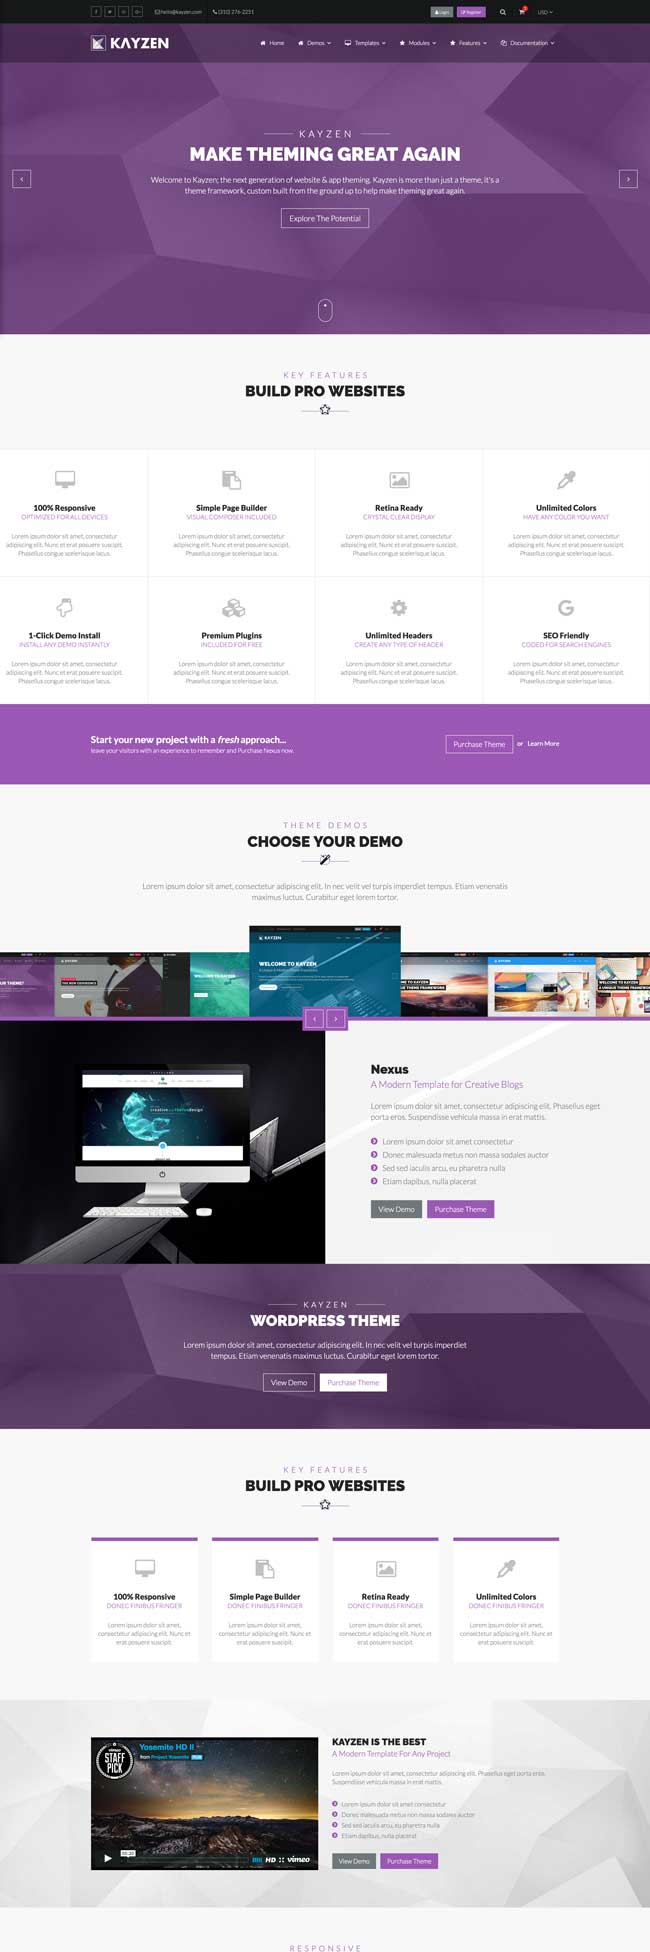
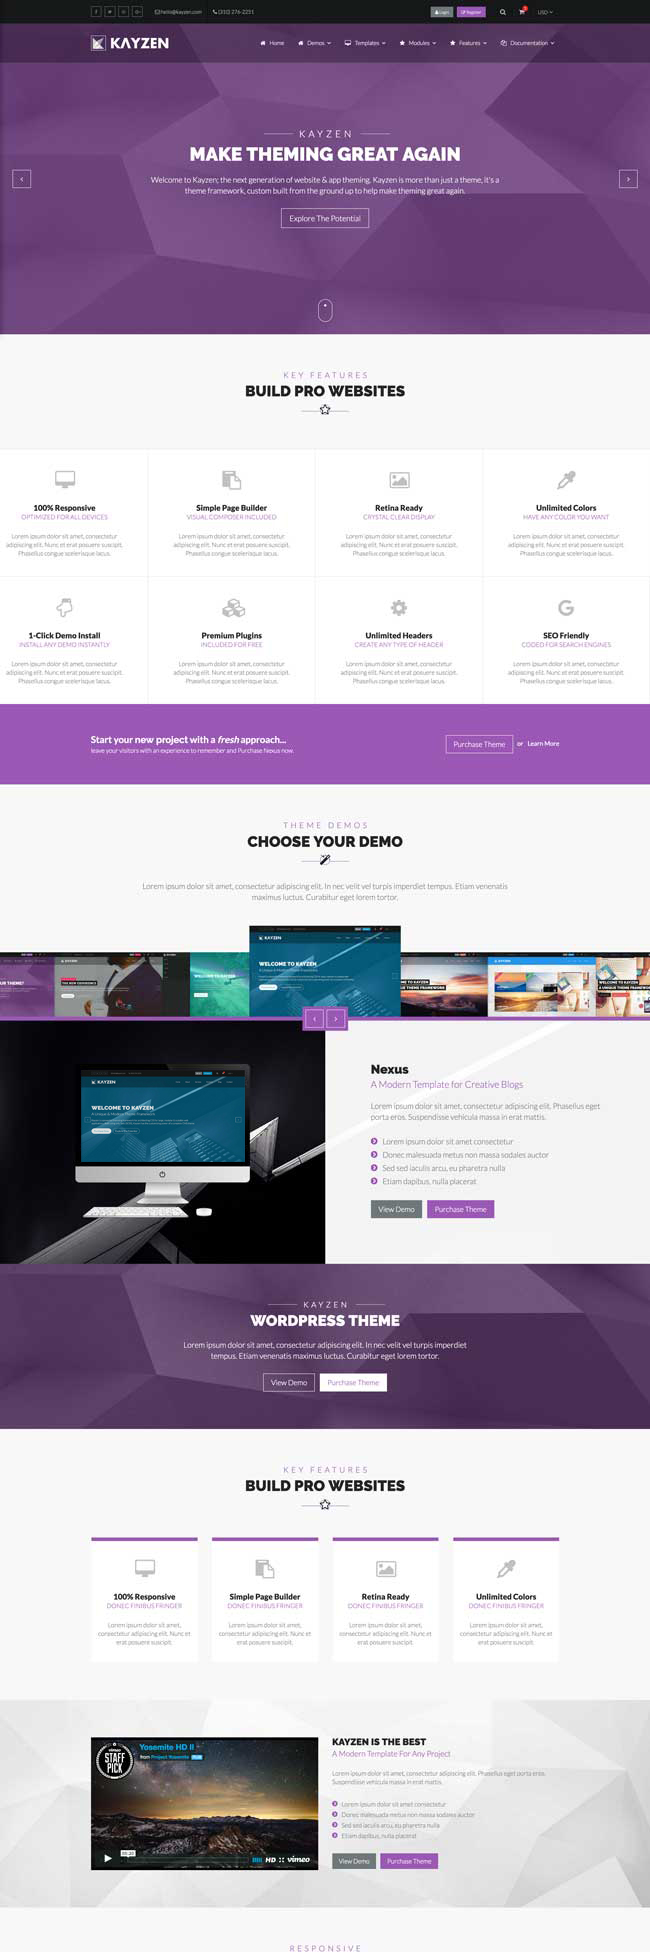
final commit?

Changed region(s): [[0.1231, 0.5312, 0.4, 0.5938]]

diff --git a/Gruntfile.js b/Gruntfile.js
@@ -789,7 +789,6 @@ module.exports = function(grunt) {
     
     // Package the app
     grunt.registerTask('package', [
-        'compile',
         'clean:images',
         'copy:images',
         'responsive_images',

diff --git a/todo.md b/todo.md
@@ -1,8 +1,6 @@
 # To Do
 #============================================================
 
-- replace thefox image in theme-1.jpg
-- change section title icons
 
 # Done
 #============================================================
@@ -55,6 +53,7 @@
 - update docs
 - add thankyou contact us finish page
 - update links on features page
+- replace thefox image in theme-1.jpg
 
 # Next Release
 #============================================================
@@ -78,6 +77,7 @@
 - lint js
 - lint scss
 - clean tmp builder files in a task
+- change section title icons
 
 # Backlog
 #============================================================
